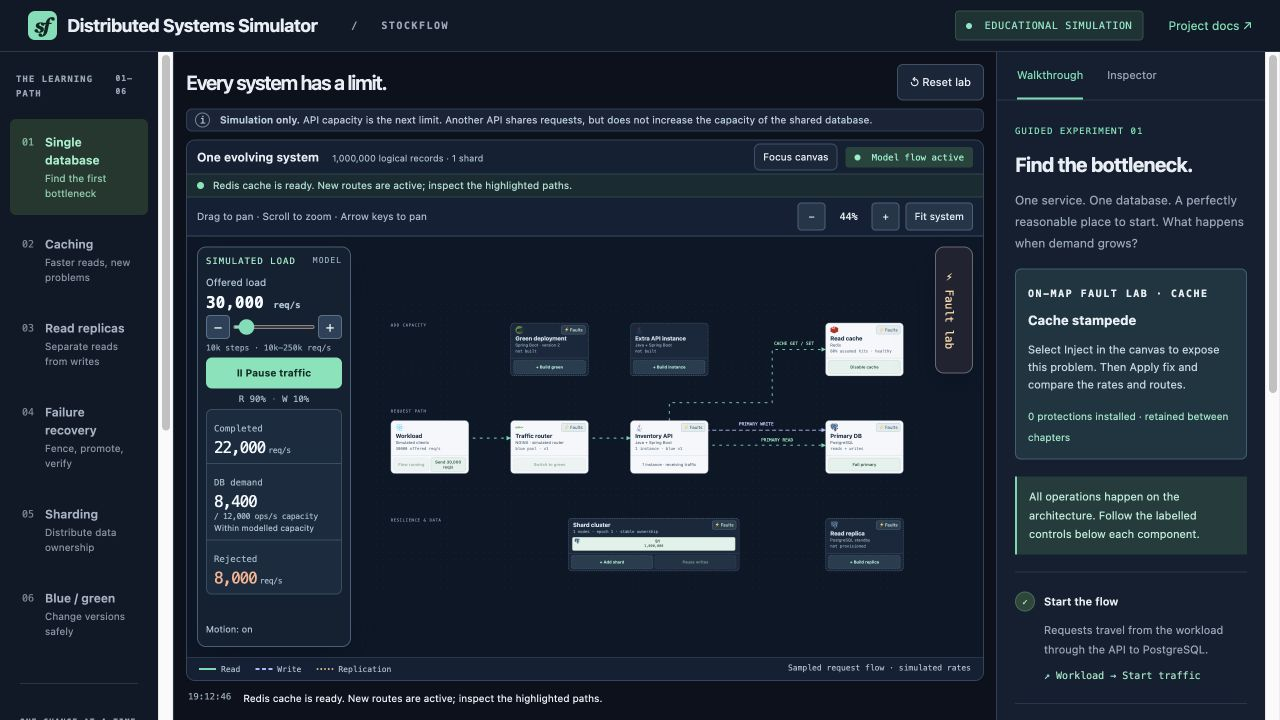
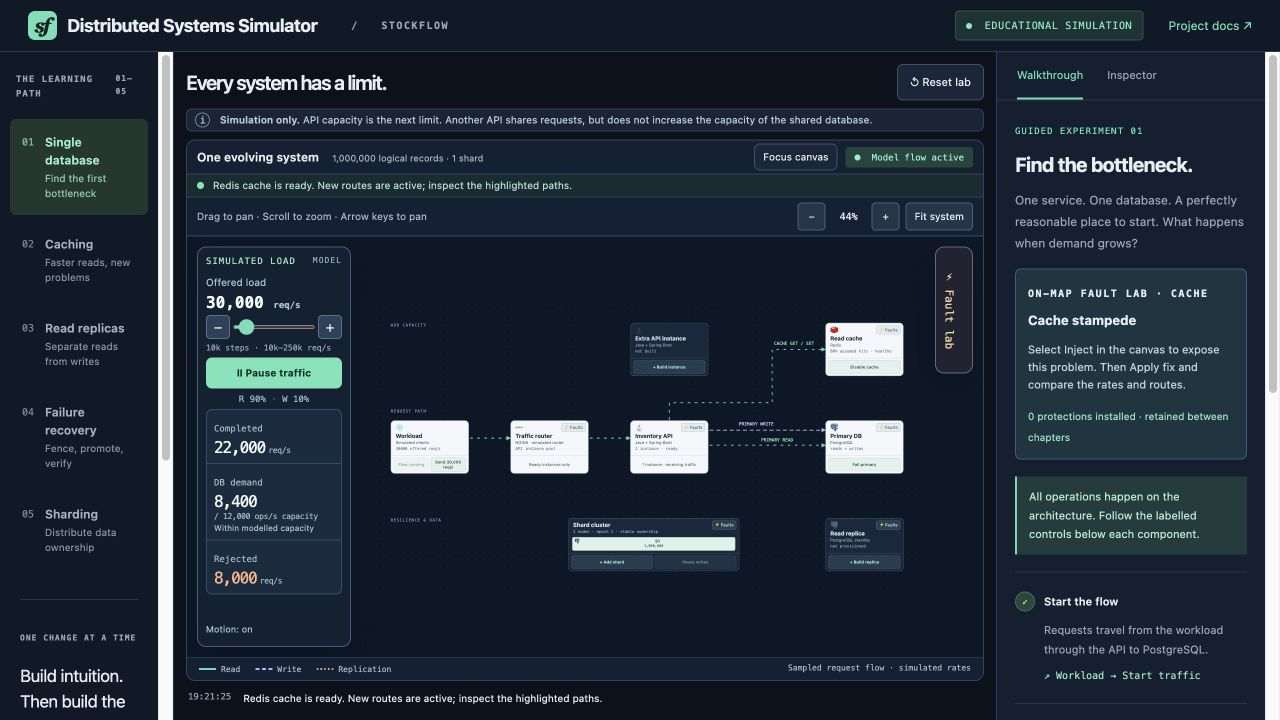
docs: teach database scaling through guided experiments

diff --git a/docs/articles/distributed-systems-simulator.md b/docs/articles/distributed-systems-simulator.md
@@ -1,109 +1,165 @@
-# I Removed the Backend to Make My Distributed Systems Demo Better
+# From One Database to a Distributed System: Bottlenecks, Caches and Shards
 
-*A browser-based simulator for seeing how caching, replication and sharding move bottlenecks—and introduce new problems.*
+*An interactive walkthrough of how database scaling changes performance, consistency and failure recovery—and why every improvement needs a second question.*
 
-Adding another service instance is easy to draw on an architecture diagram. Explaining why it might do nothing for throughput is harder.
+An inventory service is struggling under load. Someone suggests adding another API instance. Someone else suggests Redis. A third person recommends sharding.
 
-That is the question behind **Distributed Systems Simulator**, a portfolio project built around a fictional inventory system called StockFlow. You start with one API and one database, turn up the load, and add solutions directly to the architecture. The routes change, the numbers change, and the next limitation becomes visible.
+All three proposals can be reasonable. They solve different problems.
 
-[Try the live simulator](https://arifmehmood16.github.io/stockflow/) · [Explore the source](https://github.com/ArifMehmood16/stockflow)
+Before choosing one, I want to know where requests spend their work, which data must be fresh, and what the system must preserve when a component fails. An architecture diagram is useful only if we can explain those decisions.
 
-The tool runs entirely in your browser. It does not start Java services, connect to PostgreSQL or generate HTTP load. That boundary is a deliberate design choice, not a missing setup step.
+I built **Distributed Systems Simulator**, using an inventory scenario called StockFlow, to make that reasoning visible. You start with one service and one database, increase demand, then change one thing at a time. The same architecture stays on screen as routes change, components fail and data ownership moves.
 
-## The detour that clarified the product
+[Open the free interactive demo](https://arifmehmood16.github.io/stockflow/) · [Explore the source](https://github.com/ArifMehmood16/stockflow)
 
-The project initially included a real Java API, a local PostgreSQL dataset and a request generator. That made it possible to investigate real behavior, but it also changed what the demo was about.
+The walkthrough below follows a simple teaching pattern: **predict the outcome, make a change, inspect the result, then challenge the assumption behind it.**
 
-Instead of focusing on the architecture, I was dealing with run configuration, connection limits, startup, timeouts and the difference between a request and a multi-request workload cycle. An HTTP connection timeout was a valid observation—but it did not, by itself, demonstrate the database bottleneck I wanted someone to understand.
+## Start with an explicit model
 
-There was also a more basic mismatch: someone evaluating a portfolio should be able to open the project and explore it. They should not need to import a dataset and configure a database before reaching the interesting part.
+StockFlow represents stock lookups and inventory reservations. Its baseline assumptions are deliberately small enough to explain:
 
-I narrowed the product to an educational simulator. The earlier backend experiment remains in Git history. The current application has one job: make a design trade-off understandable through interaction.
+- One million virtual inventory records, represented by ownership counts.
+- A workload of 90% reads and 10% writes.
+- An API capacity of 22,000 requests per second per instance.
+- A database capacity of 12,000 operations per second.
+- An 80% hit rate for eligible reads when the cache is healthy.
 
-## A bottleneck you can reproduce in two minutes
+**These are teaching constants, not measurements of Java, Redis or PostgreSQL.** Everything runs in the browser. The technology logos identify architectural roles; no services or databases are provisioned. Animated particles illustrate a sample of the flow, rather than individual requests.
 
-The initial scenario uses explicit assumptions:
+The model deliberately treats database operations as comparable units of work. A production stock lookup and a contended reservation transaction would not necessarily cost the same amount. Keeping that distinction explicit lets us reason about the example without mistaking it for a sizing exercise.
 
-- One API can handle 22,000 requests per second.
-- The database can handle 12,000 operations per second.
-- Traffic is 90% reads and 10% writes.
-- A healthy cache serves 80% of eligible reads.
+## 1. Find the bottleneck before adding capacity
 
-These values are teaching constants. They are not benchmarks for Java, Redis or PostgreSQL, and they are not production-sizing advice.
+Open the demo and choose **Reset lab** if you have already experimented. On the Workload component, click **Start traffic**, then **Send 30,000 req/s**.
 
-Set the offered load to **30,000 requests per second**. In the baseline model, all of that work reaches the database. Its assumed capacity is the first limit, so about **12,000 requests per second** complete.
+The model completes 12,000 requests per second and rejects 18,000. The database is the first constraint.
 
-![The baseline model at 30,000 offered requests per second, with 12,000 completing.](../images/database-bottleneck.png)
+![Baseline architecture offering 30,000 requests per second, with 12,000 completed and 18,000 rejected.](../images/database-bottleneck.png)
 
-*The displayed values are calculated by the simulation. No requests are sent to a real service.*
+*Figure 1. Offered demand exceeds the database's assumed capacity. All displayed rates are simulated.*
 
-Now build Redis on the map. With 27,000 reads and 3,000 writes per second, an 80% read-hit assumption leaves:
+Before adding anything, predict what a second API instance will change. It increases application capacity, but both instances still depend on the same database. In this baseline, completed throughput remains 12,000.
 
-**27,000 × 20% + 3,000 = 8,400 database operations per second.**
+You can test that counterexample using **Build instance**, then reset before continuing. The important result is that the database limit survives application scaling.
 
-Database demand now fits within the assumed 12,000-operation capacity. But the application still cannot complete all 30,000 requests: the single API becomes the next limit at **22,000 requests per second**.
+In a real investigation, this would be a hypothesis to check against query cost, connection-pool waits, lock contention and storage behaviour. The simulator does not identify those causes. It makes the shared dependency visible and gives us a controlled way to reason about it.
 
-![Adding the simulated cache lowers database demand and exposes the API limit.](../images/cache-added.png)
+## 2. Use caching to reduce work, then look for the next limit
 
-Add a second API instance. Its readiness animation finishes, requests are routed across the instances, and the modeled system can now complete **30,000 requests per second**.
+From the baseline at 30,000 requests per second, choose **Build Redis** on the cache card. Wait for its readiness animation to finish.
 
-![With caching and another API, the model handles the selected load.](../images/scaled-system.png)
+With 27,000 reads and 3,000 writes per second, an 80% read hit rate changes the assumed database demand to:
 
-The point is the sequence. Adding an API before reducing database demand leaves the shared database as the bottleneck. After caching, that same API addition becomes useful. The value of a change depends on the constraint it addresses.
+```text
+Read misses = 27,000 × (1 − 0.80) = 5,400 operations/s
+Writes      = 3,000 operations/s
+Total       = 8,400 database operations/s
+```
 
-## Every solution should introduce a question
+The database now has enough capacity for that demand. Completed throughput rises to 22,000 requests per second, where the single API becomes the constraint.
 
-A cache cannot be presented as a permanent “make it faster” button. In the simulator, you can inject a stampede, stale data, penetration, a hot key or a cache crash. The explanation changes with the fault and its mitigation.
+![Redis enabled, with database demand reduced to 8,400 operations per second and completions limited to 22,000 requests per second.](../images/cache-added.png)
 
-The same idea carries through the other lessons:
+*Figure 2. Caching reduces work reaching storage. The next bottleneck is the API.*
 
-**Read replicas:** eligible reads can move away from the primary, but writes still need it. Lag introduces a consistency trade-off. The lesson distinguishes read capacity from primary write capacity.
+Now choose **Build instance**. Once it is ready, the model completes all 30,000 offered requests per second.
 
-**Sharding:** a new shard starts empty. It does not contribute balanced capacity until ownership moves. The model represents one million virtual records through 16 ownership buckets, so you can see why adding a node and moving data are separate steps. Skew and interrupted migration remain visible problems.
+![Redis and a second API instance supporting all 30,000 offered requests per second in the model.](../images/scaled-system.png)
 
-**Failure recovery:** a failed primary must be fenced before promotion. The simulator illustrates this ordering; it does not claim to reproduce real data recovery or prove durability.
+*Figure 3. The same application scaling action helps after the database constraint has been relieved.*
 
-**Blue/green deployment:** the new version must become ready before traffic switches. A broken version needs a rollback path. Drawing a green box is only the beginning of the lesson.
+This sequence gives us a more useful explanation than “Redis makes the system faster”. Repeated reads avoid storage work, and application capacity becomes relevant after that reduction.
 
-These experiments share one evolving architecture. Moving between chapters preserves the current components, load and installed protections. That makes it possible to compare changes within the same system.
+The hit rate is an assumption worth challenging. AWS's discussion of caching emphasises both reuse across requests and tolerance for eventual consistency. A cache provides little benefit when most queries are unique. [Caching challenges and strategies](https://aws.amazon.com/builders-library/caching-challenges-and-strategies/)
 
-## A small implementation with an explicit model
+For inventory, I would distinguish a browsing view from the decision to reserve the last item. A cached stock count may be acceptable for display; an authoritative reservation needs a correctness rule at the write boundary. This demo does not implement reservation transactions or prove that overselling is impossible.
 
-The application uses HTML, CSS and JavaScript modules without a frontend framework or runtime package dependencies.
+## 3. Break the cache that the system now depends on
 
-The implementation separates four concerns:
+Keep the cache and second API in place. Click **Faults** on the Redis card, select **Cache stampede**, then click **Inject fault**.
 
-- State transitions and capacity formulas.
-- Rendering, lesson guidance and staged animations.
-- Component geometry, request routes and pan/zoom.
-- Contextual explanations and hover placement.
+A stampede occurs when many callers try to refill missing or expired data together. The model represents this by reducing the assumed hit rate and multiplying origin work. Database demand rises sharply despite the unchanged offered request rate.
 
-Most of the useful tests are small model tests: an unfinished component must not receive traffic; a replica must not increase primary write capacity; adding an empty shard must not instantly rebalance ownership; offered requests must be accounted for as completed or rejected.
+![Cache stampede injected, with increased database demand, rejected requests and the Coalesce + jitter mitigation visible.](../images/cache-stampede.png)
 
-A regression also checks the walkthrough above: the progression from 12,000 to 22,000 to 30,000 modeled completions. The test already passing before a change is evidence of existing behavior, not a reason to invent new infrastructure.
+*Figure 4. The optimisation has introduced another failure mode. The multipliers illustrate amplification; they are not empirical predictions.*
 
-I used AI coding assistance during development and kept a development log of changes, checks and scope decisions. The model, its limitations and the resulting user experience still require review; generated code is not evidence that a distributed-systems claim is correct.
+Click **Coalesce + jitter** and compare the result. In this model, the protection bounds duplicate fills and restores the healthy cache assumption.
 
-## What this model deliberately leaves out
+The two ideas address different parts of the problem. Request coalescing lets callers share a fill for the same key. Expiry jitter spreads expiration times. Neither should be treated as a universal switch that makes cache behaviour safe. In a real implementation I would also examine coordination across API instances, fill deadlines and what happens when the caller responsible for a fill disappears.
 
-This is an aggregate model, not a network emulator. It does not reproduce queueing distributions, consensus, transaction logs, physical replication, CPU contention or real latency percentiles.
+Try the other faults individually, using **Recover** between experiments. Installed protections persist until **Reset lab**, so reset when you want an untreated comparison:
 
-The request particles are sampled animation. They are not one particle per request. The million-record label represents virtual ownership counts, not an allocated dataset. Build timers provide visual pacing rather than provisioning measurements.
+- **Stale cache:** inspect the old-value refill race and apply **Version guard**. A freshness policy needs more than a high hit rate.
+- **Cache penetration:** requests for missing identifiers reach storage repeatedly. **Negative cache** absorbs repeated misses; it cannot absorb an unlimited stream of unique identifiers.
+- **Hot key:** demand concentrates on one key. A bounded local cache can help reads, but distributing copies introduces invalidation work. A heavily contended write still needs an ownership strategy.
+- **Redis crash:** compare bounded fallback with recovery. Rejecting excess work can protect storage while leaving some requests unserved; the cache remains down until **Recover**.
 
-Those omissions make the explanation manageable, but they also limit the conclusions someone can draw. A scenario can show why a bottleneck moves under stated assumptions. It cannot tell you how many instances your production system needs.
+AWS describes the broader risk as a service becoming dependent on its cache: when the cache is cold or unavailable, downstream demand can surge. That is why the failure experiment belongs immediately after the success experiment. [Caching challenges and strategies](https://aws.amazon.com/builders-library/caching-challenges-and-strategies/)
 
-I chose to make those boundaries visible in the interface and README. A convincing animation should not turn an assumption into an apparent measurement.
+## 4. Separate read capacity from write authority
 
-## Making the portfolio easy to try
+Reset the lab, choose **Read replicas**, send 30,000 requests per second, and build a replica. Follow the arrows: eligible reads move to the replica, writes remain on the primary, and the replication path is separate from client traffic.
 
-The public demo is hosted on GitHub Pages using its free public-repository offering. There is no paid server, database or custom domain. Publishing copies only the static application to a dedicated deployment branch; local configuration and legacy data are not part of the site.
+This is the distinction I want the animation to teach. Another copy of the data can serve reads without creating another independent writer.
 
-Locally, `make run` serves the same files. `make stop` stops that preview. Docker is optional and serves the same static application in a single container.
+Inject **Replica lag** through the replica's fault controls, then apply **Pin fresh reads**. Freshness-sensitive reads return to the primary, increasing its demand. The mitigation changes the read route; it does not make the replica catch up instantly.
 
-Removing the backend made the project less ambitious in infrastructure and more focused as a teaching tool. A visitor can now change one component, see the effect and ask whether the next problem has actually been addressed.
+PostgreSQL documents that asynchronous replication can expose delayed data on a standby and can lose recent transactions during failover if their changes have not reached it. Those are separate concerns: freshness while serving reads, and possible data loss when choosing a replacement primary. [PostgreSQL: log-shipping standby servers](https://www.postgresql.org/docs/17/warm-standby.html)
 
-[Open the simulator](https://arifmehmood16.github.io/stockflow/), set the load to 30,000 requests per second, and try adding another API before adding the cache. Then reset and reverse the order. The comparison is the lesson.
+Continue into **Failure recovery** with the replica present. Click **Fail primary**. Promotion remains unavailable until you select **Fence primary**, then **Promote replica**.
 
----
+Fencing represents preventing the old primary from continuing to accept writes. The ordering makes the single-writer requirement visible. It does not implement isolation, verify replication progress or establish a safe recovery point. In a real design, I would require evidence for those conditions before treating the new primary as authoritative.
 
-Source and implementation notes: [repository](https://github.com/ArifMehmood16/stockflow), [simulation model](https://github.com/ArifMehmood16/stockflow/blob/main/docs/SIMULATION.md), [GitHub Pages availability](https://docs.github.com/en/pages/getting-started-with-github-pages).
+## 5. Add a shard, then explain why nothing improved
+
+Reset again, choose **Sharding**, and send 30,000 requests per second. Click **Add shard** and let it become ready.
+
+The new shard owns zero records. The original shard still owns all one million.
+
+![Two ready shard nodes, with all one million virtual records still owned by the original shard and zero on the new shard.](../images/empty-shard.png)
+
+*Figure 5. Provisioning a node does not redistribute existing data or traffic.*
+
+The simulator uses 16 logical buckets and a versioned ownership map. The map says which shard owns each bucket; an epoch identifies the current map version. Adding a machine changes the available destinations. Moving ownership changes where work can go.
+
+Follow the controls on the shard cluster:
+
+1. **Pause writes** to moving buckets. Existing ownership continues to serve reads.
+2. **Copy buckets** to stage the transfer.
+3. **Verify copy** before allowing a switch.
+4. **Switch owners** to activate the new ownership map.
+
+![Completed ownership transfer, with 500,000 virtual records on each of two shards.](../images/shard-ownership.png)
+
+*Figure 6. After the model's ownership switch, each shard owns half the records. The total remains one million.*
+
+These are state transitions, not real data copying or checksum verification. Their purpose is to teach ordering and invariants: an empty node adds no balanced capacity, an interrupted transfer retains the original owners, and the final record count remains unchanged.
+
+A production migration needs an answer for writes arriving during transfer, stale routers, retries and partial failures. Pausing affected writes is the demo's explicit simplification. Supporting uninterrupted writes would require a migration protocol beyond what this model demonstrates.
+
+Now use the shard fault controls to explore naive modulo routing and a hot tenant. Changing `hash(key) % N` changes destinations when `N` changes; changing the formula alone does not move stored data. A stable bucket map separates placement decisions from node count.
+
+Likewise, balanced record counts do not imply balanced traffic. If one tenant dominates requests and stays on one shard, adding unrelated shards cannot remove that tenant's local constraint. The relevant question becomes how to partition that workload—or limit it while protecting other tenants.
+
+## What I chose to model—and what I left out
+
+The interface keeps one cumulative system across five chapters. Controls sit beside the components they change, hover details describe the current state, and the guide asks the reader to connect an action with its consequence. Reset makes counterexamples repeatable.
+
+Underneath, small JavaScript modules separate state transitions, capacity calculations, routing and presentation. Tests check the teaching contracts: replicas do not add primary write capacity, shards begin empty, interrupted migrations preserve ownership, and completed plus rejected requests account for offered demand.
+
+The model does not reproduce real queues, latency distributions, lock scheduling, network partitions, consensus or durable recovery. The rejected count is a capacity-model result, not a measured HTTP timeout rate. Clicking a recovery button cannot establish that a database has recovered safely.
+
+I chose that boundary so a reader can explore cause and effect without installing a database or generating load. The next step for production work would be to turn each hypothesis into an implementation-specific experiment with explicit correctness and failure criteria.
+
+AI tools assisted development and editorial work. The source and tests are public so the assumptions can be inspected and challenged alongside the presentation.
+
+## Try a prediction before the next click
+
+[Open the simulator](https://arifmehmood16.github.io/stockflow/) and change the order of the first experiment: scale the API before adding the cache. Then add an empty shard and ask whether the new node has earned any traffic yet.
+
+For each change, write down three things: **the work it removes or redistributes, the correctness condition it depends on, and the failure mode it introduces.**
+
+That is the reasoning I want this tool to help people practise. The diagram is the starting point; explaining why its behaviour changes is the lesson.
+
+[Source code and local setup](https://github.com/ArifMehmood16/stockflow) · [Model assumptions and limitations](https://github.com/ArifMehmood16/stockflow/blob/main/docs/SIMULATION.md)

diff --git a/docs/articles/medium-publishing-notes.md b/docs/articles/medium-publishing-notes.md
@@ -1,13 +1,27 @@
 # Medium publishing notes
 
-Status: finished article draft; not submitted to or published on Medium.
+Status: article draft ready for author review; not submitted to or published on Medium.
 
-- Article: [I Removed the Backend to Make My Distributed Systems Demo Better](distributed-systems-simulator.md).
-- Subtitle: A browser-based simulator for seeing how caching, replication and sharding move bottlenecks—and introduce new problems.
-- Suggested topics: Distributed Systems, System Design, Software Engineering, JavaScript, Learning.
-- Lead image: `docs/images/scaled-system.png`.
-- Inline images, in order: `database-bottleneck.png`, `cache-added.png`, `scaled-system.png` in `docs/images/`. Captions and alt text are in the article.
-- Keep the model disclaimer near the first numbers. Do not describe 30,000 requests/s as measured performance.
-- Paste the article into Medium, upload the three local screenshots where indicated, and retain the demo/source links. Relative Markdown image paths will need uploads in the Medium editor.
-- Review the first-person account and AI-assistance disclosure before publishing under your name. No Medium account or publication was accessed for this task.
-- After publication, add the Medium URL to README.md; retain the Markdown source for future edits.
+- Title: **From One Database to a Distributed System: Bottlenecks, Caches and Shards**.
+- Subtitle: An interactive walkthrough of how database scaling changes performance, consistency and failure recovery—and why every improvement needs a second question.
+- Article source: [Read the draft](distributed-systems-simulator.md).
+- Suggested topics: Distributed Systems, Databases, System Design, Software Engineering, Learning.
+- Suggested cover: `docs/images/scaled-system.png`. Caption it as an educational simulation, not a benchmark.
+- Inline screenshots, in order: `database-bottleneck.png`, `cache-added.png`, `scaled-system.png`, `cache-stampede.png`, `empty-shard.png`, `shard-ownership.png`. All are in `docs/images/`; the article supplies alt text and captions.
+
+## Editorial approach
+
+Use consistent British English, active voice and concrete explanations. Define jargon at first use, keep paragraphs focused, and use headings that advance the technical argument. Show engineering judgement through assumptions, counterexamples, invariants and failure conditions rather than claims about seniority. Do not invent employment experience, production incidents, benchmarks or durability guarantees.
+
+Each experiment follows prediction → action → observation → trade-off. Distinguish behaviour demonstrated by this aggregate model from production considerations. Keep the simulation disclaimer before the first result, the distinction between request rates and storage work, and the limits on recovery claims. Blue-green deployment is reserved for a separate topic and is outside this article and simulator.
+
+## Prepare the Medium version
+
+1. Review the first-person account and AI-assistance disclosure before publication under your name.
+2. Paste the article and set its title and subtitle separately. Upload the six screenshots at the marked positions; relative Markdown image links need uploads in Medium.
+3. Preserve captions, alt text, the public demo link and primary-source citations. Check image legibility on desktop and mobile; readers can use the live demo to inspect individual cards.
+4. Run the three short experiments from a reset: baseline → cache → API; stampede → mitigation; empty shard → ownership transfer. Protections persist between lessons, so reset when comparing untreated faults.
+5. Check the published demo shows five chapters and no deployment card before sharing.
+6. Publish only after the author's review. Add the resulting Medium URL to README.md and retain this Markdown source.
+
+No Medium account or publication was accessed. Screenshots show the actual browser interface; displayed throughput is simulated. Historical documentation and log entries retain earlier scope as historical evidence.
